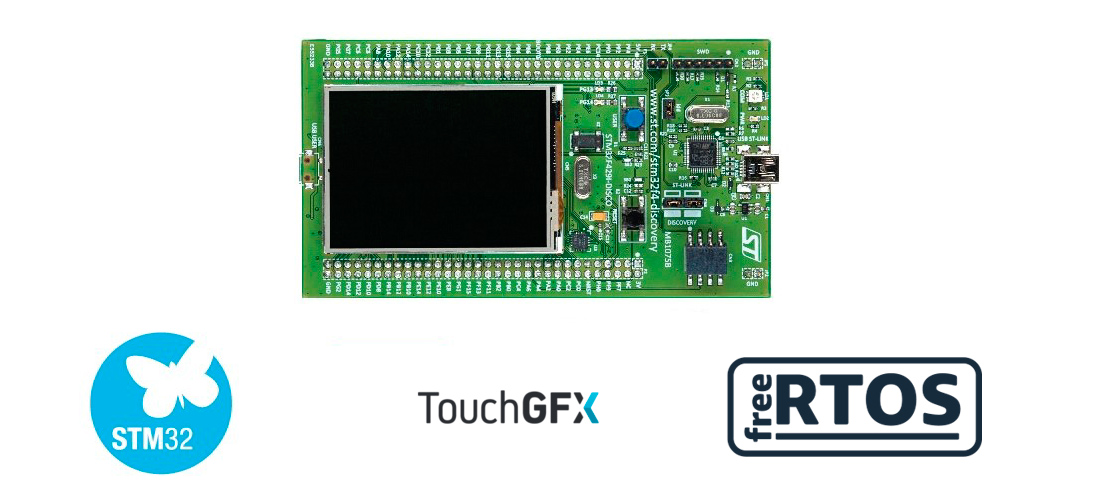
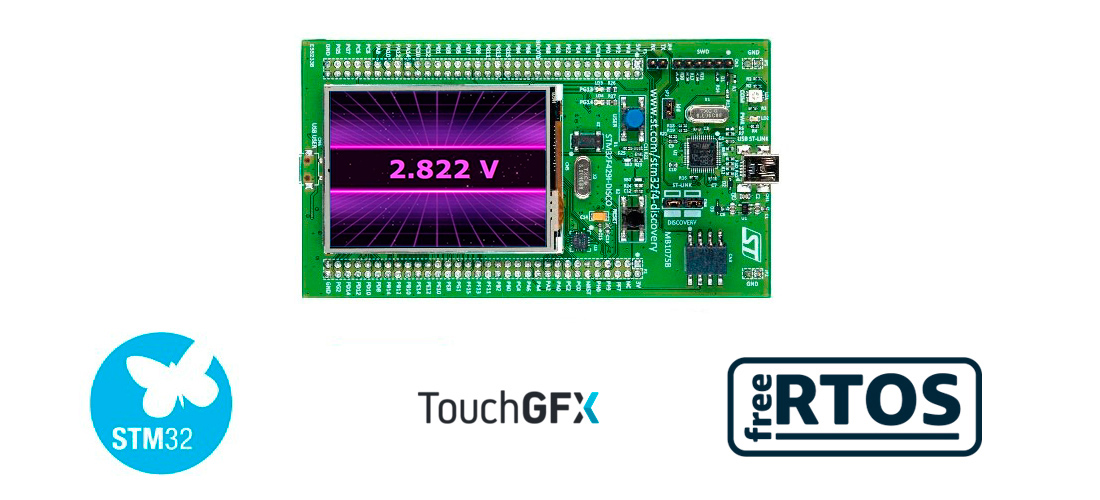
add content

Changed region(s): [[0.2473, 0.06, 0.7109, 0.6], [0.0927, 0.84, 0.1855, 0.9]]

diff --git a/src/pages/touchgfx-adc/index.md b/src/pages/touchgfx-adc/index.md
@@ -38,7 +38,11 @@ Welcome to the future, I hope you enjoy your stay! This is an example of how you
 
 ## Згенеруємо код CubeMX
 
-## Виносимо код за межі  main.c наприклад у файл analog.c
+## Створимо в TouchGFX Designer проект, добавимо текстове поле та фонове фото
+
+![Space](./Screenshot_5.jpg) 
+
+## Відкриваєм проект в CubeIDE та виносимо код за межі main.c наприклад у файл analog.c
 
 ```c
 #include <analog.h>
@@ -178,42 +182,4 @@ protected:
 #endif // SCREEN1VIEW_HPP 
 ```
 
-Nam ullamcorper, orci nec tempor hendrerit, lorem nunc laoreet diam, vel gravida sem mi quis augue. Nunc odio velit, facilisis quis dictum non, facilisis quis felis. Vivamus [elementum dapibus nibh](https://google.com), eget aliquet nunc luctus maximus. Sed finibus risus eget ultrices maximus. Aliquam commodo consectetur diam eget tristique. Nunc quis erat quis felis fringilla tempus. Cras tempor nibh dolor, ac lacinia lacus ultrices eu.
 
-> Quisque tempor nulla turpis, ut placerat arcu lobortis nec. Aenean sed vehicula nisi. Nullam vitae placerat enim. Etiam hendrerit enim vel tempor fermentum. Morbi rutrum euismod ipsum a luctus.
-
-Morbi et libero id metus tempor imperdiet eget non mi. Mauris pulvinar quis enim at placerat. Vestibulum vitae dapibus lectus, ut elementum est.
-
-### Pellentesque facilisis venenatis mi, sit amet molestie nisl ornare et
-
-Morbi posuere facilisis eros vel euismod. Pellentesque habitant morbi tristique senectus et netus et malesuada fames ac turpis egestas. Etiam malesuada dapibus dolor non cursus. Sed in turpis justo. Cras sed hendrerit nulla. Sed ornare, leo et suscipit tincidunt, justo diam sollicitudin risus, vitae vulputate nulla augue et lacus.
-
-1.  Morbi posuere facilisis
-2.  Pellentesque habitant morbi tristique
-3.  Etiam malesuada dapibus
-
-Ut vel ligula ante. Proin quis metus magna. Nulla nec dui vulputate, semper orci in, sagittis dolor. Mauris dictum neque non fermentum consectetur. Integer vel pellentesque ex, ut tincidunt quam.
-
-#### Sed ac orci a dolor venenatis vulputate
-
-Sed sollicitudin, turpis ac malesuada dapibus, magna dui semper orci, in congue justo felis quis ante. Phasellus consequat et dolor fringilla accumsan. Pellentesque ullamcorper porttitor dolor et imperdiet.
-
-![Space](./space.jpg)
-
-Pellentesque consectetur facilisis venenatis. Nam ullamcorper, orci nec tempor hendrerit, lorem nunc laoreet diam, vel gravida sem mi quis augue. Nunc odio velit, facilisis quis dictum non, facilisis quis felis. Vivamus elementum dapibus nibh, eget aliquet nunc luctus maximus. Sed finibus risus eget ultrices maximus. Aliquam commodo consectetur diam eget tristique. Nunc quis erat quis felis fringilla tempus. Cras tempor nibh dolor, ac lacinia lacus ultrices eu.
-
-##### Nulla nec dui vulputate, semper orci in, sagittis dolor
-
-Mauris dictum neque non fermentum consectetur. Integer vel pellentesque ex, ut tincidunt quam. Sed ac orci a dolor venenatis vulputate. Sed sollicitudin, turpis ac malesuada dapibus, magna dui semper orci, in congue justo felis quis ante. Phasellus consequat et dolor fringilla accumsan. Pellentesque ullamcorper porttitor dolor et imperdiet.
-
-```javascript
-$(document).ready(function() {
-    console.log('More jQuery, wow!')
-})
-```
-
-###### ras aliquet ipsum ut enim pellentesque, id varius quam placerat
-
-Maecenas non scelerisque leo. Sed id purus fringilla, consequat magna non, faucibus neque. Cras ornare nisi a lectus ultricies convallis. Integer tristique dictum eros, et elementum ante consectetur eget. Phasellus sollicitudin est vestibulum suscipit pellentesque. Duis in eros cursus magna laoreet aliquam vel a lectus. Nulla ut nisi vitae ipsum sollicitudin vestibulum. Aenean sit amet mattis odio. Vestibulum ultrices sed ipsum nec pretium. Integer non turpis nunc. Praesent tincidunt tincidunt alique
-
-Integer mollis dolor non libero placerat, ut efficitur nisi ultricies. Etiam ac lacinia urna, eget ornare nunc. Suspendisse eget eros id turpis gravida semper. Duis ornare lorem et est pellentesque, quis rhoncus leo vestibulum. Nullam eu nulla ut elit rutrum iaculis. Cras a laoreet elit, in aliquet erat. Sed interdum varius posuere. Pellentesque eget luctus erat. Nam quis sem in ligula efficitur bibendum.
